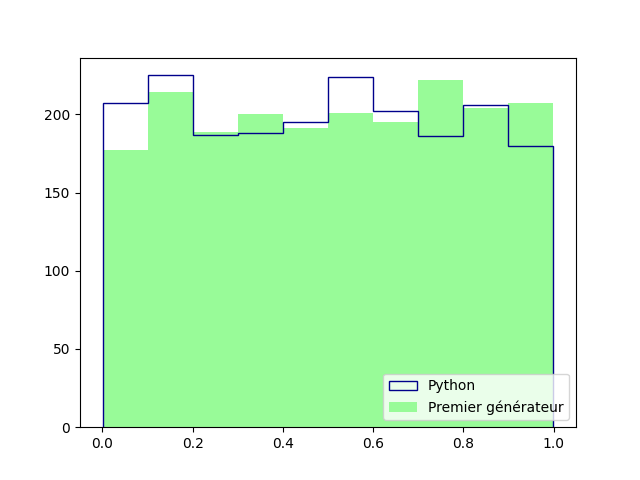
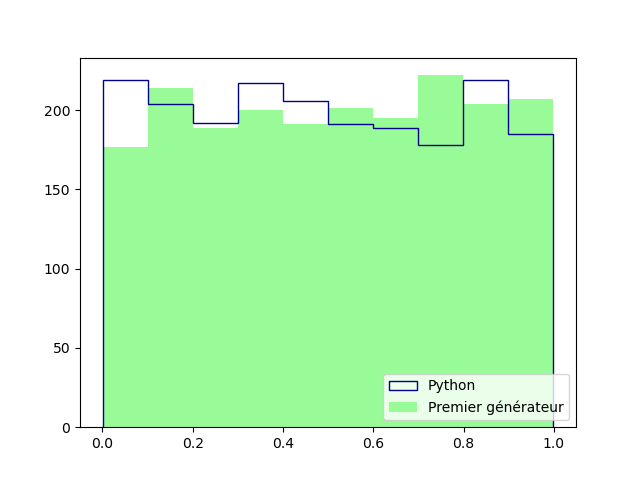
Release

diff --git a/main.py b/main.py
@@ -58,9 +58,9 @@ if __name__ == '__main__':
     rng1 = Generator1(50)
     rng2 = Generator2(50)
     rng3 = Generator3(50)
-    gen_numbers_1 = [rng1.random() for _ in range(20000)]
-    gen_numbers_2 = [rng2.random() for _ in range(20000)]
-    gen_numbers_3 = [rng3.random() for _ in range(20000)]
+    gen_numbers_1 = [rng1.random() for _ in range(2000)]
+    gen_numbers_2 = [rng2.random() for _ in range(2000)]
+    gen_numbers_3 = [rng3.random() for _ in range(2000)]
 
     print(f"Résultats des générateurs : \n"
           f"Générateur 1 : {split_in_groups(gen_numbers_1)} \n"

diff --git a/kolmogorov_smirnov.py b/kolmogorov_smirnov.py
@@ -4,7 +4,7 @@ import numpy as np
 
 
 def kolmogorov_smirnov(numbers):
-    np.sort(numbers)
+    numbers = np.sort(numbers)
     n = len(numbers)
     distance = np.max(np.array([np.abs((i/n)-numbers[i]) for i in range(len(numbers))]))
     critical = (1.358/math.sqrt(n))
